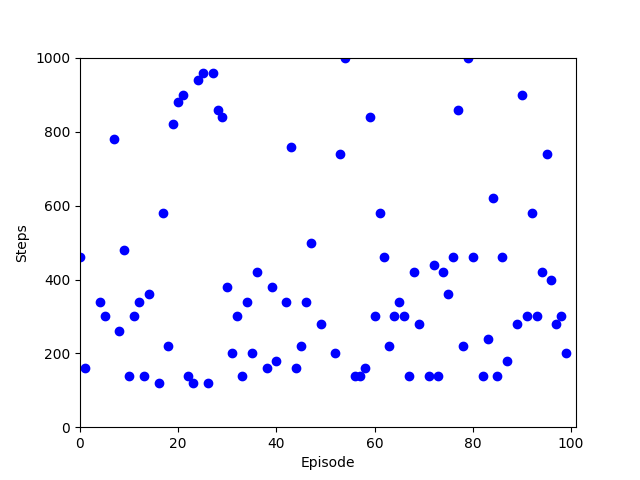
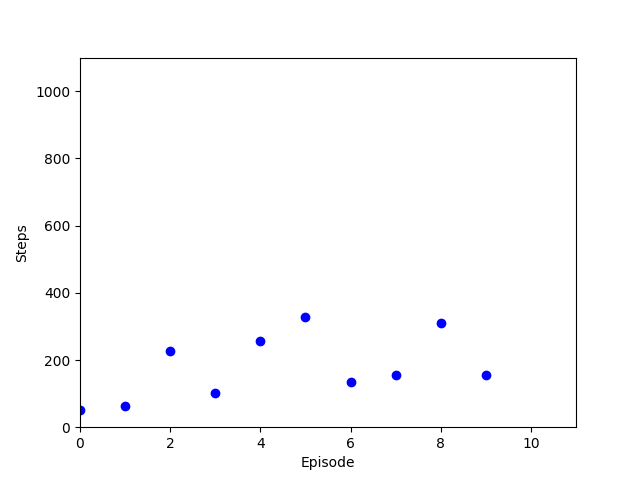
Dink commit

diff --git a/Main.py b/Main.py
@@ -138,7 +138,7 @@ discount = 0.95
 lrate = 0.1
 number_tiles = 8
 num_steps = 1000
-episodes = 100
+episodes = 10
 grate = 0.9
 grate_decay_rate = 0.9
 
@@ -168,7 +168,7 @@ def run(state,action, SAPs, env, step):
     if env.is_terminal() or step > num_steps:
         if env.is_terminal():
             print("Reached the peak!")
-            print("Steps taken " + str(step))
+            print("Steps taken " + str(step+1))
     else:
         run(nextstate,nextaction, SAPs, env, step+1)
         
@@ -214,8 +214,10 @@ for episode in range(episodes):
     # Repeat until we have reached the final state or num_steps steps have been used up
     run(state, action, SAPs, env, 0)
 
+    amount_of_moves.append(len(env.placements))
+
     # Animating the episode
-    if episode % 50 == 0 or episode == episodes-1:
+    if episode == 0 or episode == episodes/2 or episode == episodes-1:
 
         fig, ax = plt.subplots()
         ln, = plt.plot([], [], 'ro')
@@ -225,13 +227,11 @@ for episode in range(episodes):
         # Saving the animated gif
         ani.save('Animations/' + str(episode) + '.gif', writer='PillowWriter')
 
-
-
 # Plotting the scatter plot
 plt.clf()
 plt.figure()
-plt.xlim(0, episodes+10)
-plt.ylim(0, num_steps+10)
+plt.xlim(-1, episodes+episodes*0.1)
+plt.ylim(-1, num_steps+num_steps*0.1)
 plt.xlabel('Episode')
 plt.ylabel('Steps')
 plt.plot(range(episodes), amount_of_moves, 'bo')
